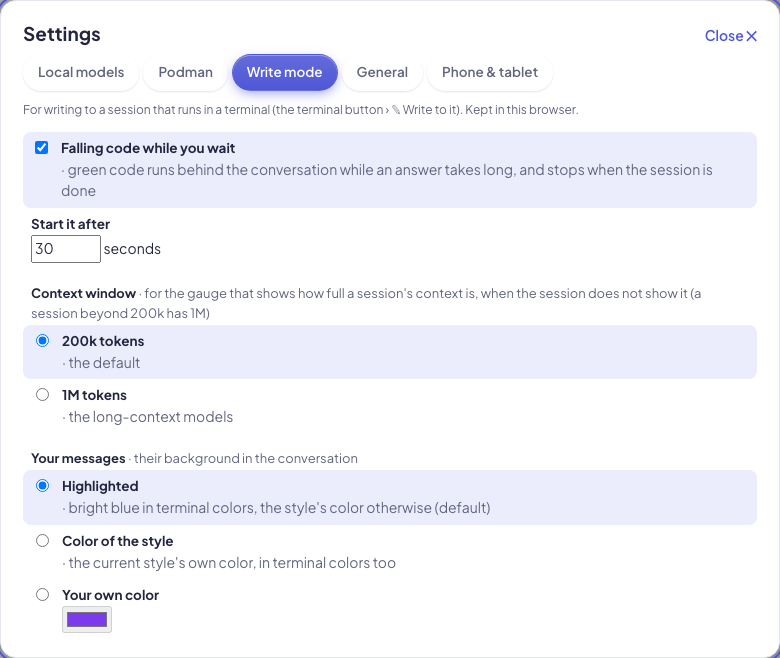
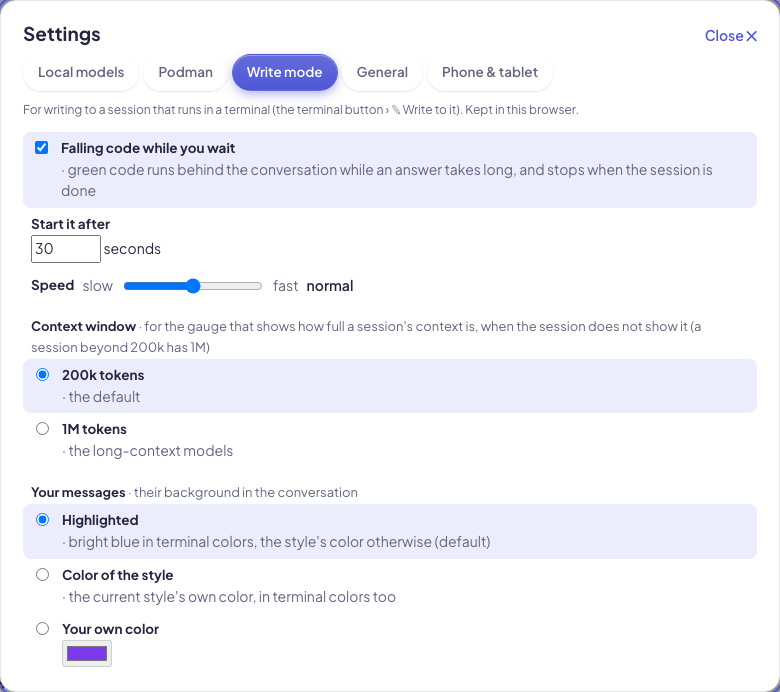
Write mode: the speed of the falling code is a setting
Settings › Write mode › Speed: five steps from very slow to very fast (60 ms per step stays the default); it applies
at once, also to rain that is running.

diff --git a/tools/openspec-dashboard/index.html b/tools/openspec-dashboard/index.html
@@ -322,6 +322,9 @@ span.ch-warn { color: var(--st-progress); }
 .cq-l { font-size: 12px; color: var(--muted); } .cq-v { font-size: 24px; font-weight: 800; letter-spacing: -.02em; color: var(--ink); }
 .cq-s { font-size: 11.5px; color: var(--muted); overflow-wrap: anywhere; }
 .cq-spark { margin-top: 4px; }
+.wm-speed { display: inline-flex; align-items: center; gap: 8px; flex-wrap: wrap; }
+.wm-speed input[type="range"] { width: 140px; }
+#wm-speed-v { font-weight: 600; min-width: 5.5em; }
 .cq-largest { margin-top: 12px; font-size: 12.5px; }
 .cq-f { display: flex; justify-content: space-between; gap: 10px; color: var(--muted); padding: 2px 0; border-bottom: 1px dashed var(--line); }
 .cq-f span:first-child { overflow: hidden; text-overflow: ellipsis; white-space: nowrap; color: var(--ink); }
@@ -1971,6 +1974,9 @@ function setRain(on) {
 // Write mode of a joined session: the same rain behind the conversation while an answer takes longer than 30 s,
 // so it is easy to see when it is done (≋ Matrix turns it off). It fades to transparent: works on light and dark.
 let wait = null;
+// the speed of the falling code (Settings › Write mode): ms per step, from very slow to very fast; 3 is the default
+const RAIN_MS = [null, 160, 100, 60, 40, 25], RAIN_SPEED = [null, 'very slow', 'slow', 'normal', 'fast', 'very fast'];
+const rainSpeed = () => Math.min(5, Math.max(1, Number(termView.rainSpeed) || 3));
 function setWaitRain(on) {
   if (!on) {
     if (wait) { cancelAnimationFrame(wait.raf); wait.canvas.remove(); $('agent')?.classList.remove('rain-on'); wait = null; }
@@ -2007,7 +2013,7 @@ function setWaitRain(on) {
   place();
   if (matchMedia('(prefers-reduced-motion: reduce)').matches) { for (let k = 0; k < 60; k++) step(); return; }
   let last = 0;
-  const loop = (t) => { wait.raf = requestAnimationFrame(loop); if (t - last < 60) return; last = t; step(); };
+  const loop = (t) => { wait.raf = requestAnimationFrame(loop); if (t - last < RAIN_MS[rainSpeed()]) return; last = t; step(); }; // the speed is read every frame: a change applies at once
   wait.raf = requestAnimationFrame(loop);
 }
 const WAIT_RAIN_AFTER = 30e3;
@@ -4844,6 +4850,7 @@ function renderWriteSettings() {
     <p class="ag-note">For writing to a session that runs in a terminal (the terminal button › ✎ Write to it). Kept in this browser.</p>
     <label class="set-opt ${on ? 'sel' : ''}"><input type="checkbox" data-wm="matrix" ${on ? 'checked' : ''}><span><b>Falling code while you wait</b><span class="muted"> · green code runs behind the conversation while an answer takes long, and stops when the session is done</span></span></label>
     <label class="set-opt ${on ? '' : 'off'}"><span><b>Start it after</b> <input type="number" min="5" max="600" step="5" data-wm="after" value="${termView.rainAfter ?? 30}" ${on ? '' : 'disabled'} style="width:5em"> seconds</span></label>
+    <label class="set-opt ${on ? '' : 'off'}"><span class="wm-speed"><b>Speed</b> <span class="muted">slow</span><input type="range" min="1" max="5" step="1" data-wm="speed" value="${rainSpeed()}" ${on ? '' : 'disabled'} aria-label="Speed of the falling code" aria-valuetext="${RAIN_SPEED[rainSpeed()]}"><span class="muted">fast</span> <span id="wm-speed-v">${RAIN_SPEED[rainSpeed()]}</span></span></label>
     <div class="wm-head"><b>Context window</b> <span class="muted">· for the gauge that shows how full a session's context is, when the session does not show it (a session beyond 200k has 1M)</span></div>
     ${[[200000, '200k tokens', 'the default'], [1000000, '1M tokens', 'the long-context models']].map(([v, label, desc]) => `<label class="set-opt ${(termView.ctxWin ?? 200000) === v ? 'sel' : ''}"><input type="radio" name="wm-ctx" data-wm="ctxwin" value="${v}" ${(termView.ctxWin ?? 200000) === v ? 'checked' : ''}><span><b>${label}</b><span class="muted"> · ${desc}</span></span></label>`).join('')}
     <div class="wm-head"><b>Your messages</b> <span class="muted">· their background in the conversation</span></div>
@@ -4852,6 +4859,11 @@ function renderWriteSettings() {
       return `<label class="set-opt ${cur === v ? 'sel' : ''}"><input type="radio" name="wm-me" data-wm="me" value="${v}" ${cur === v ? 'checked' : ''}><span><b>${label}</b>${desc ? `<span class="muted"> · ${desc}</span>` : ''}${v === 'custom' ? ` <input type="color" data-wm="mecolor" value="${/^#/.test(me) ? me : termView.meLast ?? '#7c3aed'}" aria-label="Color of your messages" ${cur === 'custom' ? '' : 'disabled'}>` : ''}</span></label>`;
     }).join('')}`;
 }
+document.addEventListener('input', (e) => { // the speed while dragging: the label and a running rain follow at once
+  if (e.target.dataset?.wm !== 'speed') return;
+  termView.rainSpeed = Number(e.target.value) || 3; termViewSave();
+  $('wm-speed-v').textContent = RAIN_SPEED[rainSpeed()]; e.target.setAttribute('aria-valuetext', RAIN_SPEED[rainSpeed()]);
+});
 document.addEventListener('change', (e) => {
   const k = e.target.dataset?.wm;
   if (!k) return;
@@ -4859,6 +4871,7 @@ document.addEventListener('change', (e) => {
   else if (k === 'me') termView.me = e.target.value === 'custom' ? termView.meLast ?? '#7c3aed' : e.target.value;
   else if (k === 'mecolor') termView.me = termView.meLast = e.target.value;
   else if (k === 'ctxwin') termView.ctxWin = Number(e.target.value) || 200000;
+  else if (k === 'speed') termView.rainSpeed = Number(e.target.value) || 3;
   else termView.rainAfter = Math.min(600, Math.max(5, Number(e.target.value) || 30));
   termViewSave(); renderWriteSettings();
   if (ag.open) renderAgentLive(); // the open panel follows at once

diff --git a/tools/openspec-dashboard/README.md b/tools/openspec-dashboard/README.md
@@ -339,9 +339,9 @@ Started with `--agent`, the dashboard talks to Claude Code in two places:
     `tool_result`), for the whole panel, and back; **A− / A / A+** set the text size. While the session has been working
     for more than 30 s since your message, a rain canvas (the Matrix style's falling code, fading to transparent)
     runs behind the conversation and is removed when it is done (a still image with reduced motion); the **Write
-    mode** tab of the settings (⚙ below the input box opens it there) turns it off, sets the delay (5–600 s) and the
+    mode** tab of the settings (⚙ below the input box opens it there) turns it off, sets the delay (5–600 s), the speed (one step every 160, 100, 60, 40 or 25 ms; 60 by default) and the
     color of your messages (highlighted, the style's accent, or an own color with a readable text color). Both only apply in write mode
-    and are kept in `localStorage` (`osd-term-view`: `look`, `fs`, `matrix`, `rainAfter`, `me`, `ctxWin`). **Set up the hook** is
+    and are kept in `localStorage` (`osd-term-view`: `look`, `fs`, `matrix`, `rainAfter`, `rainSpeed`, `me`, `ctxWin`). **Set up the hook** is
     only offered for a picked session that cannot be typed into. The drop-down lists the project's sessions of the last 12 hours: the ones the
     hook below reports, and also those it has not seen (no hook, or started before it), found in Claude Code's own
     records: `~/.claude/sessions/<pid>.json` (session id, folder, idle or busy; the process must still run) for the

diff --git a/docs/user-guide.md b/docs/user-guide.md
@@ -437,7 +437,8 @@ write to a session (with reduced motion it is a still image).
 ![Writing to a session in terminal colors: the steps as in the CLI, and falling code while the answer is on its way](images/dashboard-terminal-rain.png)
 
 **⚙** below the input box opens the settings on the **Write mode** tab while you write to a session: turn the
-falling code off, or start it after another number of seconds (5 to 600; 30 by default), and choose the color of
+falling code off, start it after another number of seconds (5 to 600; 30 by default), set its **speed** (five steps
+from very slow to very fast; it changes at once, also while it runs), and choose the color of
 **your messages**: highlighted (the default: bright blue in terminal colors, the style's color otherwise), the color
 of the current style (in terminal colors too), or a color of your own (the text turns dark or light to stay
 readable), and the **context window** the gauge assumes when the session does not show it. All of the look
